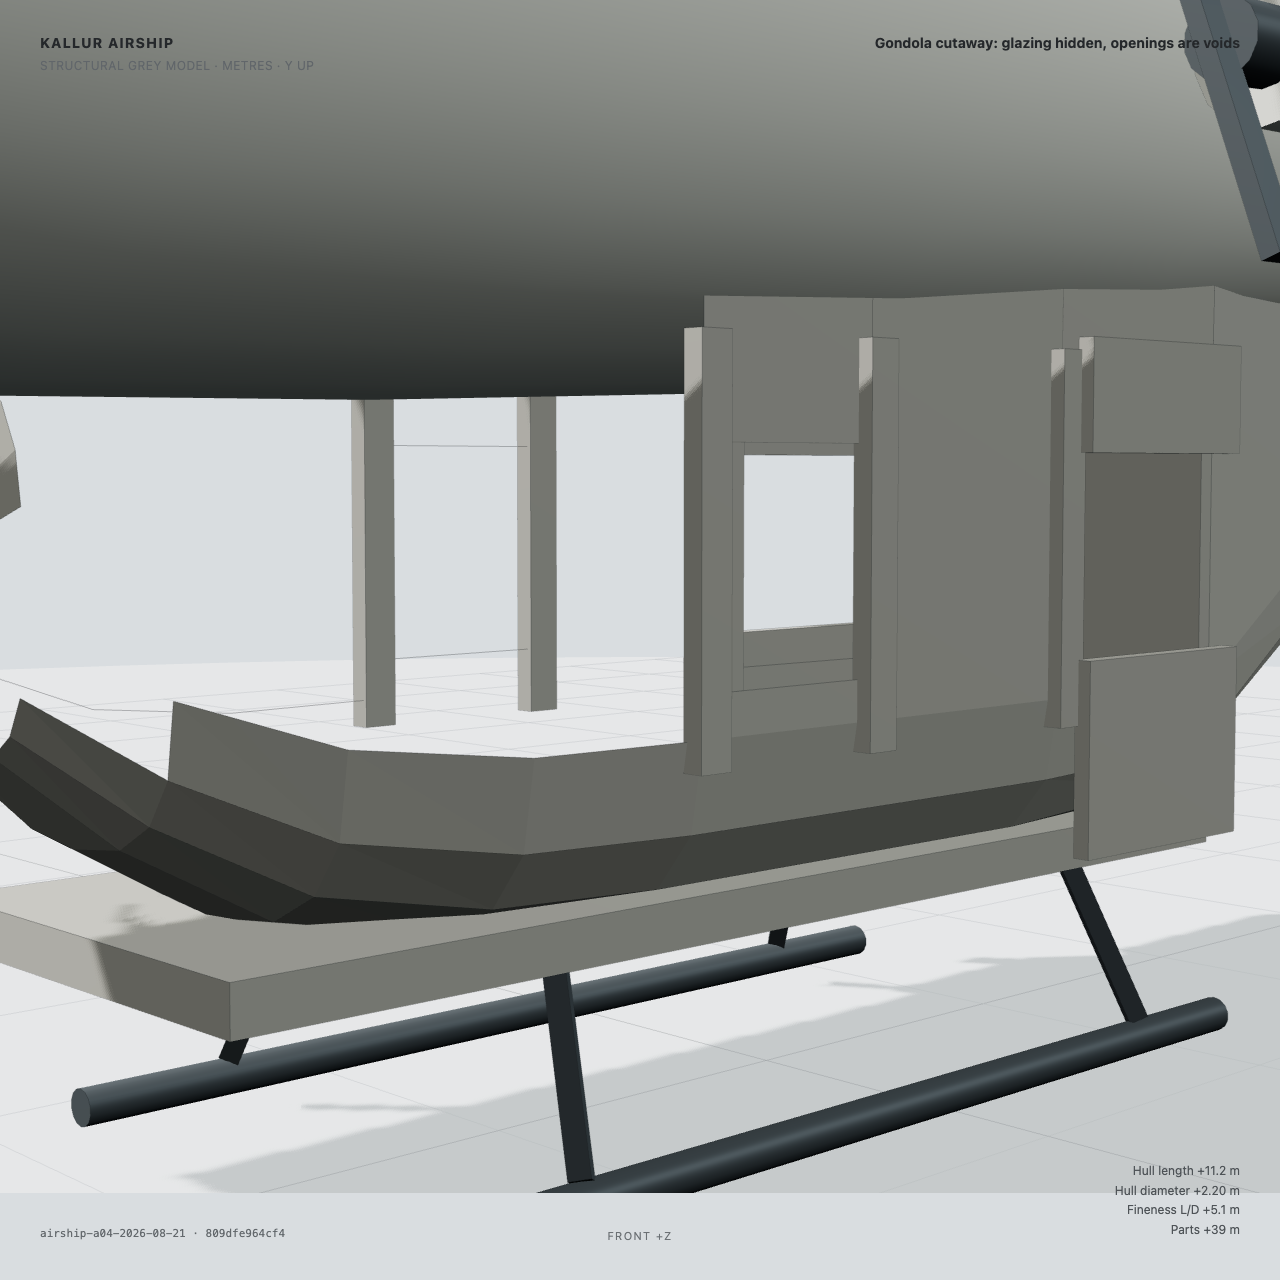
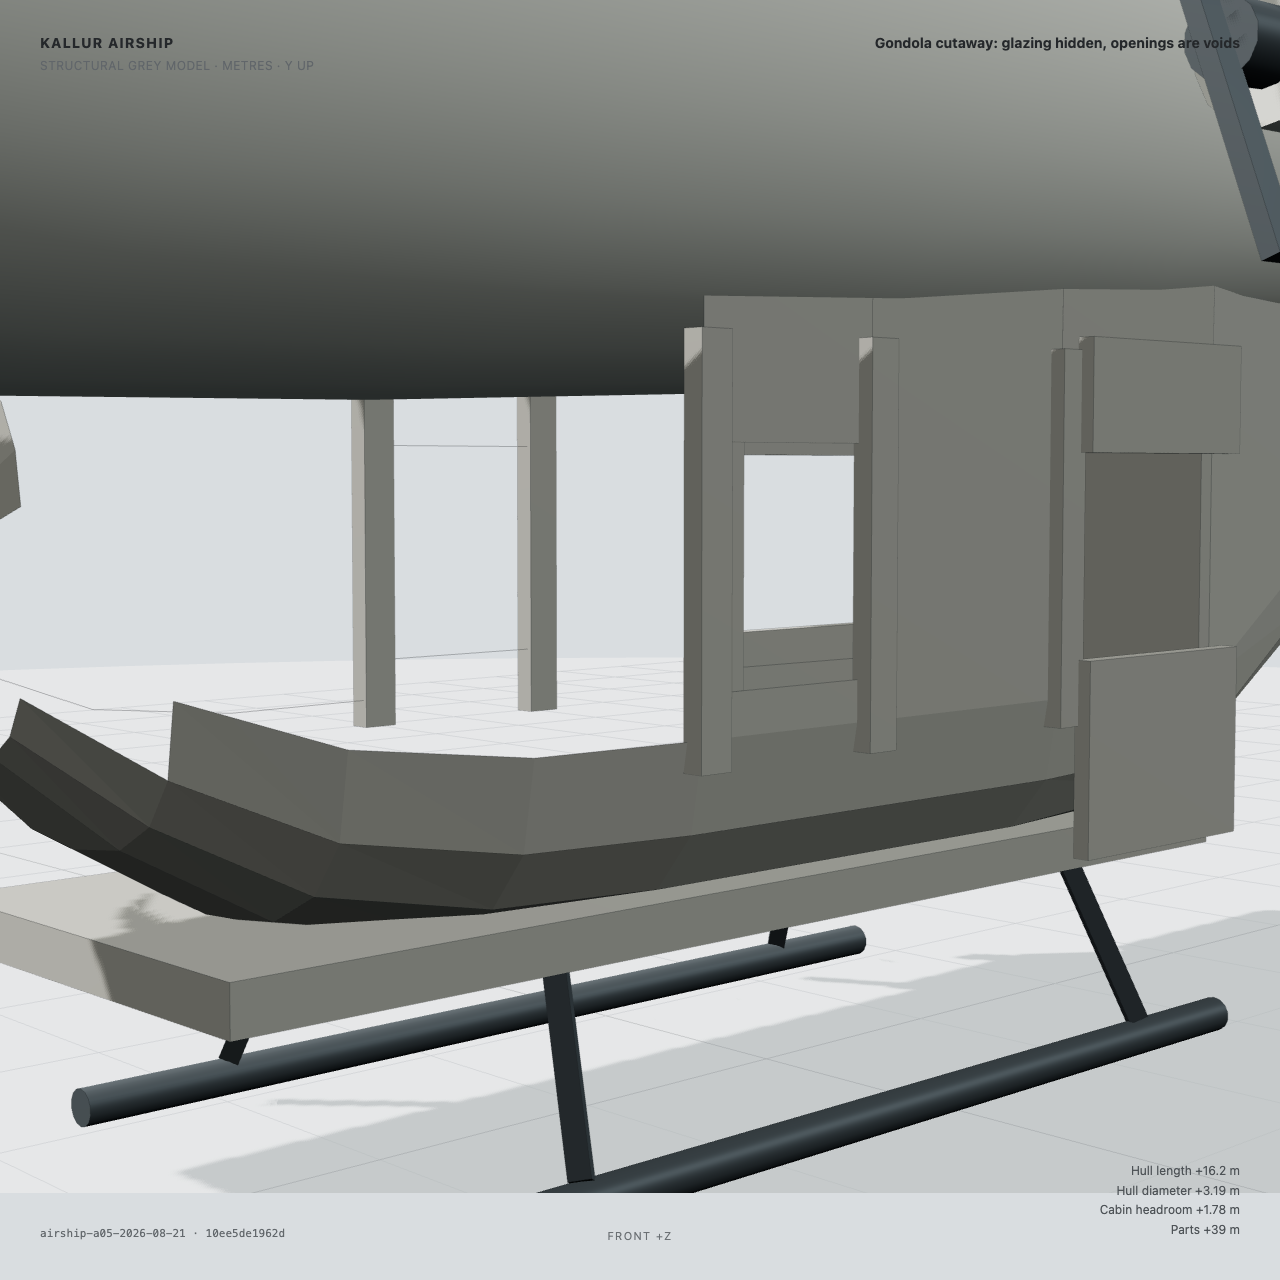
feat(kallur): airship a05 - uniform 1.45x scale, standing cabin
Igor's verdict: keep the a04 lines, grow the whole ship so a 1.62 m
villager stands in the cabin with margin. One KALLUR_AIRSHIP_SCALE at
emission over untouched author-space geometry: hull 16.2 x 3.19 m,
centreline headroom 1.78 m (1.87 off-axis). New independent test gate:
standing headroom >= 1.72 recovered from belly-over-floor.

diff --git a/games/make-a-mess/src/content/objects/kallur/kallurAirshipObject.ts b/games/make-a-mess/src/content/objects/kallur/kallurAirshipObject.ts
@@ -22,39 +22,57 @@ import type {
 
 const TAU = Math.PI * 2;
 
-export const KALLUR_AIRSHIP_LENGTH = 11.2;
-export const KALLUR_AIRSHIP_RADIUS = 1.1;
-export const KALLUR_AIRSHIP_AXIS_Y = 2.95;
+// Authoring space: the hull is drawn at the a04 accepted proportions and
+// the WHOLE ship is scaled uniformly at emission - Igor's verdict
+// (21.08): keep the lines, grow the ship so a 1.62 m villager stands in
+// the cabin with margin. 1.45 turns the 1.21 m centreline headroom into
+// 1.76 m (1.87 m half a metre off-axis).
+export const KALLUR_AIRSHIP_SCALE = 1.45;
+const AUTHOR_LENGTH = 11.2;
+const AUTHOR_RADIUS = 1.1;
+const AUTHOR_AXIS_Y = 2.95;
+export const KALLUR_AIRSHIP_LENGTH = AUTHOR_LENGTH * KALLUR_AIRSHIP_SCALE;
+export const KALLUR_AIRSHIP_RADIUS = AUTHOR_RADIUS * KALLUR_AIRSHIP_SCALE;
+export const KALLUR_AIRSHIP_AXIS_Y = AUTHOR_AXIS_Y * KALLUR_AIRSHIP_SCALE;
 
-const HALF_LENGTH = KALLUR_AIRSHIP_LENGTH / 2;
-const NOSE_LENGTH = KALLUR_AIRSHIP_LENGTH * 0.28;
+const HALF_LENGTH = AUTHOR_LENGTH / 2;
+const NOSE_LENGTH = AUTHOR_LENGTH * 0.28;
 const WEDGES = 28;
 
 /** Hull radius as a function of distance from the nose — the one owner of
  * the loft; fins, pod boom and pylons read it too. Slender thirties
  * proportions: elliptic nose sharpened past the pure sqrt, midship at
  * 28%, long power-law tail cone. */
-export function kallurAirshipHullRadius(a: number): number {
-  if (a <= 0 || a >= KALLUR_AIRSHIP_LENGTH) return 0;
+function authorHullRadius(a: number): number {
+  if (a <= 0 || a >= AUTHOR_LENGTH) return 0;
   if (a <= NOSE_LENGTH) {
     const t = a / NOSE_LENGTH;
-    return KALLUR_AIRSHIP_RADIUS *
+    return AUTHOR_RADIUS *
       Math.pow(Math.max(0, 1 - (1 - t) * (1 - t)), 0.62);
   }
-  const t = (a - NOSE_LENGTH) / (KALLUR_AIRSHIP_LENGTH - NOSE_LENGTH);
-  return KALLUR_AIRSHIP_RADIUS * Math.pow(Math.max(0, 1 - t * t), 0.62);
+  const t = (a - NOSE_LENGTH) / (AUTHOR_LENGTH - NOSE_LENGTH);
+  return AUTHOR_RADIUS * Math.pow(Math.max(0, 1 - t * t), 0.62);
 }
 
+/** World-scale hull radius by world-scale distance from the nose. */
+export const kallurAirshipHullRadius = (a: number): number =>
+  authorHullRadius(a / KALLUR_AIRSHIP_SCALE) * KALLUR_AIRSHIP_SCALE;
+
 const radiusAtZ = (z: number): number =>
-  kallurAirshipHullRadius(HALF_LENGTH - z);
+  authorHullRadius(HALF_LENGTH - z);
 
 /** Hull belly height at (x, z) — where the pod must bury its wall tops. */
-export const kallurAirshipBellyY = (x: number, z: number): number => {
+const authorBellyY = (x: number, z: number): number => {
   const radius = radiusAtZ(z);
   const reach = radius * radius - x * x;
-  if (reach <= 0) return KALLUR_AIRSHIP_AXIS_Y;
-  return KALLUR_AIRSHIP_AXIS_Y - Math.sqrt(reach);
+  if (reach <= 0) return AUTHOR_AXIS_Y;
+  return AUTHOR_AXIS_Y - Math.sqrt(reach);
 };
+
+/** World-scale hull belly height at world-scale (x, z). */
+export const kallurAirshipBellyY = (x: number, z: number): number =>
+  authorBellyY(x / KALLUR_AIRSHIP_SCALE, z / KALLUR_AIRSHIP_SCALE) *
+    KALLUR_AIRSHIP_SCALE;
 
 const point = (x: number, y: number, z: number): ObjectPoint => [x, y, z];
 
@@ -116,20 +134,20 @@ const HULL_STATIONS = [
 {
   const vertices: ObjectPoint[] = [];
   const gridIndex = (station: number, wedge: number): number => {
-    const radius = kallurAirshipHullRadius(HULL_STATIONS[station]);
+    const radius = authorHullRadius(HULL_STATIONS[station]);
     if (radius === 0) return station === 0 ? 0 : 1;
     return 2 + (station - 1) * WEDGES + (wedge % WEDGES);
   };
-  vertices.push(point(0, KALLUR_AIRSHIP_AXIS_Y, HALF_LENGTH));
-  vertices.push(point(0, KALLUR_AIRSHIP_AXIS_Y, -HALF_LENGTH));
+  vertices.push(point(0, AUTHOR_AXIS_Y, HALF_LENGTH));
+  vertices.push(point(0, AUTHOR_AXIS_Y, -HALF_LENGTH));
   for (let station = 1; station < HULL_STATIONS.length - 1; station += 1) {
     const a = HULL_STATIONS[station];
-    const radius = kallurAirshipHullRadius(a);
+    const radius = authorHullRadius(a);
     for (let wedge = 0; wedge < WEDGES; wedge += 1) {
       const phi = (wedge / WEDGES) * TAU;
       vertices.push(point(
         radius * Math.sin(phi),
-        KALLUR_AIRSHIP_AXIS_Y + radius * Math.cos(phi),
+        AUTHOR_AXIS_Y + radius * Math.cos(phi),
         HALF_LENGTH - a,
       ));
     }
@@ -164,10 +182,10 @@ const HULL_STATIONS = [
   } => {
     const vertices: ObjectPoint[] = [];
     const at = (a: number, phi: number, lift: number): ObjectPoint => {
-      const radius = kallurAirshipHullRadius(a) + lift;
+      const radius = authorHullRadius(a) + lift;
       return point(
         radius * Math.sin(phi),
-        KALLUR_AIRSHIP_AXIS_Y + radius * Math.cos(phi),
+        AUTHOR_AXIS_Y + radius * Math.cos(phi),
         HALF_LENGTH - a,
       );
     };
@@ -252,7 +270,7 @@ const finPrism = (
       outline,
       (z, span) => point(
         fin.dir[0] * span,
-        KALLUR_AIRSHIP_AXIS_Y + fin.dir[1] * span,
+        AUTHOR_AXIS_Y + fin.dir[1] * span,
         z,
       ),
       fin.across,
@@ -322,7 +340,7 @@ const POD_TIP = point(0, 1.4, 2.71);
 
 const wallTopAt = (station: PodStation, side: 1 | -1): number =>
   NOSE_ROOF.get(station.z)?.base ??
-    kallurAirshipBellyY(side * station.w, station.z) + 0.12;
+    authorBellyY(side * station.w, station.z) + 0.12;
 
 /** Cockpit glazing reaches from this height up; below is the red chin.
  * Applies to the nose loft only — mid-cabin shells stay red. */
@@ -399,8 +417,8 @@ const DOORWAY_HEAD = 1.9;
     const roofStations = POD_STATIONS.filter((s) => NOSE_ROOF.has(s.z));
     // Merge ring: buried just inside the hull at the merge station.
     const mergeRoof = {
-      base: kallurAirshipBellyY(mergeStation!.w, 2.2) + 0.12,
-      crown: kallurAirshipBellyY(0, 2.2) + 0.24,
+      base: authorBellyY(mergeStation!.w, 2.2) + 0.12,
+      crown: authorBellyY(0, 2.2) + 0.24,
     };
     const rings: { station: PodStation; roof: { base: number; crown: number } }[] = [
       { station: mergeStation!, roof: mergeRoof },
@@ -533,7 +551,7 @@ for (const side of [1, -1] as const) {
 for (const side of [1, -1] as const) {
   const tag = side > 0 ? "l" : "r";
   const podX = side * 1.48;
-  const podY = KALLUR_AIRSHIP_AXIS_Y - 0.25;
+  const podY = AUTHOR_AXIS_Y - 0.25;
   addCylinder(`pod-${tag}`, "airship-motors", "paint-light",
     point(podX, podY, -0.15), point(podX, podY, -1.05), 0.19);
   addCylinder(`pod-nose-${tag}`, "airship-motors", "metal",
@@ -542,10 +560,10 @@ for (const side of [1, -1] as const) {
     point(podX, podY, 0.07), point(0.05, 1.12, 0.09),
     point(0, 0, side * 0.35));
   addBeam(`pylon-front-${tag}`, "airship-motors", "metal",
-    point(side * 0.88, KALLUR_AIRSHIP_AXIS_Y + 0.15, -0.3),
+    point(side * 0.88, AUTHOR_AXIS_Y + 0.15, -0.3),
     point(podX, podY + 0.1, -0.4), 0.06, 0.06);
   addBeam(`pylon-rear-${tag}`, "airship-motors", "metal",
-    point(side * 0.88, KALLUR_AIRSHIP_AXIS_Y + 0.15, -0.85),
+    point(side * 0.88, AUTHOR_AXIS_Y + 0.15, -0.85),
     point(podX, podY + 0.1, -0.8), 0.06, 0.06);
 }
 
@@ -565,11 +583,35 @@ for (const side of [1, -1] as const) {
     point(x, SKID_RADIUS * 2, -0.8), 0.055, 0.055);
 }
 
-export const kallurAirshipParts: readonly ObjectLabPart[] = parts;
+// Uniform world scale at emission: proportions untouched by contract.
+const S = KALLUR_AIRSHIP_SCALE;
+const scalePoint = (p: ObjectPoint): ObjectPoint => [p[0] * S, p[1] * S, p[2] * S];
+const scaledParts: ObjectLabPart[] = parts.map((part) => {
+  if (part.kind === "box") {
+    return { ...part, center: scalePoint(part.center), size: scalePoint(part.size) };
+  }
+  if (part.kind === "beam") {
+    return {
+      ...part, from: scalePoint(part.from), to: scalePoint(part.to),
+      width: part.width * S, depth: part.depth * S,
+    };
+  }
+  if (part.kind === "cylinder") {
+    return {
+      ...part, from: scalePoint(part.from), to: scalePoint(part.to),
+      radius: part.radius * S,
+    };
+  }
+  return { ...part, vertices: part.vertices.map(scalePoint) };
+});
+
+export const KALLUR_AIRSHIP_FLOOR_TOP = (FLOOR_Y + 0.12) * S;
+
+export const kallurAirshipParts: readonly ObjectLabPart[] = scaledParts;
 
 export const kallurAirshipObject: ObjectLabModel = {
   id: "kallur-airship",
-  revision: "airship-a04-2026-08-21",
+  revision: "airship-a05-2026-08-21",
   title: "Kallur airship",
   units: "metres",
   coordinates: { up: "+Y", front: "+Z", origin: "ground-centre" },
@@ -582,89 +624,90 @@ export const kallurAirshipObject: ObjectLabModel = {
     hullLength: KALLUR_AIRSHIP_LENGTH,
     hullDiameter: KALLUR_AIRSHIP_RADIUS * 2,
     axisHeight: KALLUR_AIRSHIP_AXIS_Y,
-    cabinFloorY: FLOOR_Y,
-    finSpan: 1.45,
+    cabinFloorY: FLOOR_Y * S,
+    standingHeadroom: (authorBellyY(0, 0.3) - FLOOR_Y - 0.12) * S,
+    finSpan: 1.45 * S,
   },
   labMetrics: [
     { label: "Hull length", value: KALLUR_AIRSHIP_LENGTH, unit: "m", decimals: 1 },
     { label: "Hull diameter", value: KALLUR_AIRSHIP_RADIUS * 2, unit: "m", decimals: 2 },
-    { label: "Fineness L/D", value: KALLUR_AIRSHIP_LENGTH / (KALLUR_AIRSHIP_RADIUS * 2), decimals: 1 },
-    { label: "Parts", value: parts.length, decimals: 0 },
+    { label: "Cabin headroom", value: (authorBellyY(0, 0.3) - FLOOR_Y - 0.12) * S, unit: "m", decimals: 2 },
+    { label: "Parts", value: scaledParts.length, decimals: 0 },
   ],
   anchors: {
     "skid-plane": point(0, 0, 0),
     "cabin-door-l": point(0.71, 1.2, (DOORWAY_Z[0] + DOORWAY_Z[1]) / 2),
-    "nose-tip": point(0, KALLUR_AIRSHIP_AXIS_Y, HALF_LENGTH),
+    "nose-tip": point(0, AUTHOR_AXIS_Y, HALF_LENGTH),
   },
   motionConstraints: {
     frozen: "propellers, rudders",
     excluded: "flight, wind, docking",
   },
-  labEnvironment: { floorRadius: 14, gridSize: 20, gridDivisions: 20 },
-  parts,
+  labEnvironment: { floorRadius: 20, gridSize: 28, gridDivisions: 28 },
+  parts: scaledParts,
   views: [
     {
       id: "front",
       label: "Front: chin glazing, skids, pod symmetry",
       projection: "orthographic",
-      position: point(0, 2.4, 18),
-      target: point(0, 2.4, 0),
-      orthoHeight: 6,
+      position: scalePoint(point(0, 2.4, 18)),
+      target: scalePoint(point(0, 2.4, 0)),
+      orthoHeight: 6.0 * S,
     },
     {
       id: "profile",
       label: "Profile: hull program, cheatline, merged pod",
       projection: "orthographic",
-      position: point(18, 2.3, 0),
-      target: point(0, 2.3, 0),
-      orthoHeight: 12.2,
+      position: scalePoint(point(18, 2.3, 0)),
+      target: scalePoint(point(0, 2.3, 0)),
+      orthoHeight: 12.2 * S,
     },
     {
       id: "rear",
       label: "Rear: cruciform fins",
       projection: "orthographic",
-      position: point(0, 2.7, -18),
-      target: point(0, 2.7, 0),
-      orthoHeight: 6.6,
+      position: scalePoint(point(0, 2.7, -18)),
+      target: scalePoint(point(0, 2.7, 0)),
+      orthoHeight: 6.6 * S,
     },
     {
       id: "three-quarter",
       label: "Three-quarter: mass, fusion, livery",
       projection: "perspective",
-      position: point(9.5, 4.2, 10.5),
-      target: point(0, 2.3, 0),
+      position: scalePoint(point(9.5, 4.2, 10.5)),
+      target: scalePoint(point(0, 2.3, 0)),
       fov: 32,
     },
     {
       id: "tail-three-quarter",
       label: "Tail three-quarter: fins and boom run-out",
       projection: "perspective",
-      position: point(-8.5, 4.4, -9.5),
-      target: point(0, 2.6, -1.5),
+      position: scalePoint(point(-8.5, 4.4, -9.5)),
+      target: scalePoint(point(0, 2.6, -1.5)),
       fov: 32,
     },
     {
       id: "high-three-quarter",
       label: "High three-quarter: no rotor, white back, red lane",
       projection: "perspective",
-      position: point(6.5, 9.5, 8),
-      target: point(0, 2.6, 0),
+      position: scalePoint(point(6.5, 9.5, 8)),
+      target: scalePoint(point(0, 2.6, 0)),
       fov: 32,
     },
     {
       id: "gondola-detail",
       label: "Gondola: chin loft, wrap canopy, door, real openings",
       projection: "perspective",
-      position: point(4.4, 1.7, 4.6),
-      target: point(0, 1.35, 0.5),
+      position: scalePoint(point(4.4, 1.7, 4.6)),
+      target: scalePoint(point(0, 1.35, 0.5)),
       fov: 30,
     },
     {
       id: "gondola-cutaway",
       label: "Gondola cutaway: glazing hidden, openings are voids",
       projection: "perspective",
-      position: point(4.4, 1.7, 4.6),
-      target: point(0, 1.35, 0.5),
+      position: scalePoint(point(4.4, 1.7, 4.6)),
+      target: scalePoint(point(0, 1.35, 0.5)),
       fov: 30,
       hiddenGroups: ["airship-glazing"],
     },
